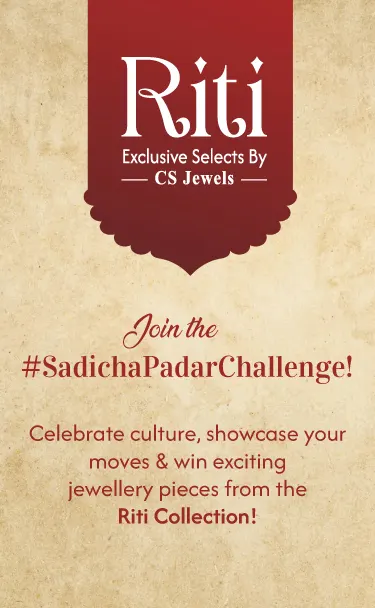
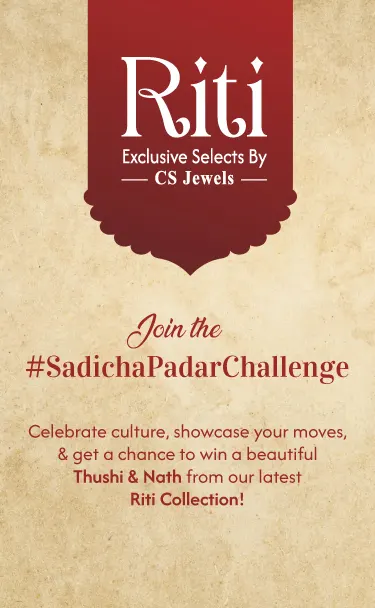
added-content-changes

Changed region(s): [[0.0587, 0.6875, 0.9387, 0.875], [0.0587, 0.5, 0.9387, 0.6562]]

diff --git a/src/Components/Screens/Campaign/RitiJewellery.js b/src/Components/Screens/Campaign/RitiJewellery.js
@@ -2,6 +2,7 @@ import { Box, Stack, Typography, Button, useMediaQuery } from "@mui/material";
 import {
   CSJEWELS_Light,
   MobRitiCollectionBanner,
+  MobRitiCollectionCoverBanner,
   RitiCollectionBanner,
   RitiCollectionCoverBanner,
   RitiLogo,
@@ -28,9 +29,12 @@ const participationSteps = [
           @csjewelsofficial
         </a>{" "}
         and{" "}
-        <span style={{ color: "#0d6efd", fontWeight: 600 }}>
+        <a
+          href="https://www.instagram.com/csmusicoriginals?igsh=MWlzOHEzZ293c3E0Zg=="
+          style={{ textDecoration: "none", fontWeight: 600 }}
+        >
           @csmusicoriginals
-        </span>{" "}
+        </a>{" "}
         on Instagram.
       </>
     ),
@@ -48,13 +52,22 @@ const participationSteps = [
     id: 3,
     step: (
       <>
-        Use traditional or fusion outfits to reflect your{" "}
-        <strong>personal style</strong> and the song’s vibe.
+        Wear a <strong>saree</strong> to bring out your individuality while
+        resonating with the song’s <strong>cultural</strong> rhythm.
       </>
     ),
   },
   {
     id: 4,
+    step: (
+      <>
+        Please ensure your profile is set to <strong> public </strong>so we can
+        view your entry.
+      </>
+    ),
+  },
+  {
+    id: 5,
     step: (
       <>
         Post on your Instagram, tag{" "}
@@ -65,9 +78,12 @@ const participationSteps = [
           @csjewelsofficial
         </a>{" "}
         &{" "}
-        <span style={{ color: "#0d6efd", fontWeight: 600 }}>
+        <a
+          href="https://www.instagram.com/csmusicoriginals?igsh=MWlzOHEzZ293c3E0Zg=="
+          style={{ textDecoration: "none", fontWeight: 600 }}
+        >
           @csmusicoriginals
-        </span>{" "}
+        </a>{" "}
         and use{" "}
         <span style={{ color: "#0d6efd", fontWeight: 600 }}>
           #SadichaPadarChallenge
@@ -77,7 +93,7 @@ const participationSteps = [
     ),
   },
   {
-    id: 5,
+    id: 6,
     step: (
       <>
         <strong>Every look has a story.</strong> Share yours in the caption —
@@ -197,8 +213,8 @@ const RitiJewellery = () => {
               with the <strong>Riti Collection</strong> by{" "}
               <strong>Chandukaka Saraf Jewels</strong>, this campaign honors
               culture, heritage, and the bride’s emotional journey — inviting
-              you to express it through dance and stand a chance to win a{" "}
-              <strong>beautiful piece</strong> from the collection.
+              you to express it through dance and stand a chance to win{" "}
+              <strong>beautiful prizes</strong> from the collection.
             </Typography>
           </Stack>
 
@@ -278,10 +294,9 @@ const RitiJewellery = () => {
                 lineHeight={1.8}
                 sx={{ fontFamily: "'Poppins', 'Arial, sans-serif'" }}
               >
-                Top 2 Winners will receive{" "}
-                <strong>exclusive Riti Jewellery pieces</strong> from the Riti
-                collection and get <strong>featured on our social media</strong>{" "}
-                pages.
+                Winners will receive <strong>exclusive prizes</strong> from the
+                Riti collection and get{" "}
+                <strong>featured on our social media</strong> pages.
               </Typography>
             </Stack>
             <Stack gap={2}>
@@ -310,7 +325,11 @@ const RitiJewellery = () => {
 
             <Box position={"relative"}>
               <img
-                src={RitiCollectionCoverBanner}
+                src={
+                  isMobile
+                    ? MobRitiCollectionCoverBanner
+                    : RitiCollectionCoverBanner
+                }
                 alt="RitiCollectionCoverBanner"
                 style={{ width: "100%", height: "100%", objectFit: "cover" }}
               />
@@ -345,22 +364,12 @@ const RitiJewellery = () => {
                   height: { sm: "3rem", xs: "auto" },
                   padding: "0.7rem 1.5rem",
                   display: "flex",
-                  gap: "0.3rem",
+                  gap: "0.5rem",
                   "&:hover": {
                     backgroundColor: "#5b2429",
                   },
                 }}
               >
-                <span
-                  style={{
-                    textTransform: "capitalize",
-                    fontFamily: '"Poppins", serif',
-                    color: "#fff",
-                    fontWeight: 600,
-                  }}
-                >
-                  Download Riti Collection
-                </span>
                 <img
                   src={RitiLogo}
                   alt="Riti Logo"
@@ -371,6 +380,16 @@ const RitiJewellery = () => {
                     overflow: "hidden",
                   }}
                 />
+                <span
+                  style={{
+                    textTransform: "capitalize",
+                    fontFamily: '"Poppins", serif',
+                    color: "#fff",
+                    fontWeight: 600,
+                  }}
+                >
+                  Download E-Catalogue 
+                </span>
               </Button>
             </a>
           </Stack>

diff --git a/src/images/imageConstants.js b/src/images/imageConstants.js
@@ -2,7 +2,16 @@ import RitiCollectionBanner from "../images/compaign-banners/Riti-Collection-Ban
 import MobRitiCollectionBanner from "../images/compaign-banners/Mob-Riticollection-Banner.webp";
 import RitiLogo from "../images/RitiLogoImage.png";
 import RitiCollectionCoverBanner from "../images/compaign-banners/RitiCollectionCoverBanner.webp";
+import MobRitiCollectionCoverBanner from "../images/compaign-banners/Mob-RitiCollectionCoverBanner.webp";
 import CSJEWELS_Light from "../images/CSJEWELS_Light.png";
 import RitiCollectionVideo from "../videos/ritiCollection.mp4";
 
-export { RitiCollectionBanner, RitiLogo, CSJEWELS_Light,MobRitiCollectionBanner,RitiCollectionCoverBanner,RitiCollectionVideo };
+export {
+  RitiCollectionBanner,
+  RitiLogo,
+  CSJEWELS_Light,
+  MobRitiCollectionBanner,
+  RitiCollectionCoverBanner,
+  RitiCollectionVideo,
+  MobRitiCollectionCoverBanner,
+};
